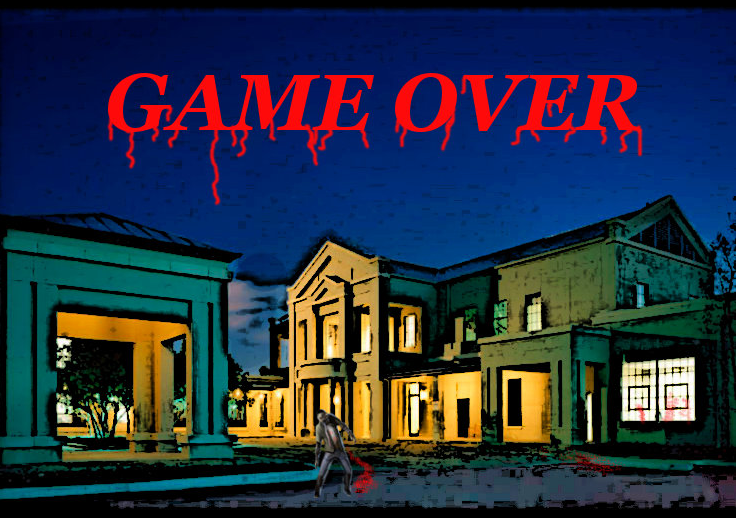
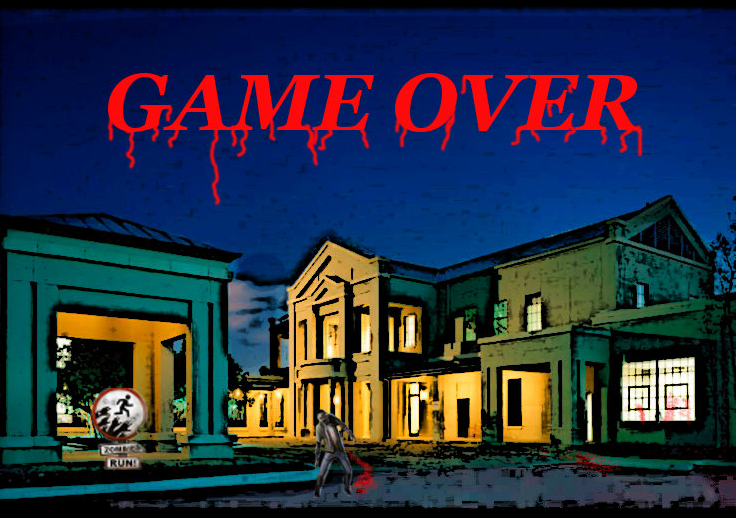
added CSS3 styling to start page  game over screen update  removed div transition animations  -LK

Changed region(s): [[0.125, 0.7413, 0.2188, 0.9266]]

diff --git a/src/css/screen.css b/src/css/screen.css
@@ -60,13 +60,14 @@ body {
 }
 
 #character-select-screen h1 {
+    text-shadow: #fff 0px 1px 0, #000 0 -1px 0;
     text-align: center;
-    color: #fff;
+    color: #14c207;
     margin-bottom: 0;
 }
 
 #gameOver {
-    background: url(../img/arsenalGameOver.jpg);
+    background: url(../img/arsenalGameOver.png);
     display: none;
 }
 
@@ -99,15 +100,46 @@ body {
     cursor: pointer;
     margin: 0 auto;
 }
+
 #start-button {
-    width: 179px;
+    width: 110px;
+    font-family: Arial, Helvetica, sans-serif;
+    font-size: 21px;
+    padding: 10px 40px;
+    margin-bottom: 25px;
+    background: -moz-linear-gradient(top, #2e2c28 0%, #e01d1d);
+    background: -webkit-gradient(linear, left top, left bottom, from(#2e2c28), to(#e01d1d));
+    -moz-border-radius: 6px;
+    -webkit-border-radius: 6px;
+    border-radius: 6px;
+    border: 1px solid #b80000;
+    -moz-box-shadow: 0px 1px 3px rgba(000, 000, 000, 0.9), inset 0px -1px 0px rgba(255, 255, 255, 0.7);
+    -webkit-box-shadow: 0px 1px 3px rgba(000, 000, 000, 0.9), inset 0px -1px 0px rgba(255, 255, 255, 0.7);
+    box-shadow: 0px 1px 3px rgba(000, 000, 000, 0.9), inset 0px -1px 0px rgba(255, 255, 255, 0.7);
+    text-shadow: 0px -1px 1px rgba(000, 000, 000, 0.5), 0px 1px 0px rgba(255, 255, 255, 0.3);
 }
+
 #continue-button {
-    width: 245px;
+    width: 150px;
+    font-family: Arial, Helvetica, sans-serif;
+    font-size: 21px;
+    padding: 10px 20px;
+    background: -moz-linear-gradient(top, #2e2c28 0%, #e01d1d);
+    background: -webkit-gradient(linear, left top, left bottom, from(#2e2c28), to(#e01d1d));
+    -moz-border-radius: 6px;
+    -webkit-border-radius: 6px;
+    border-radius: 6px;
+    border: 1px solid #b80000;
+    -moz-box-shadow: 0px 1px 3px rgba(000, 000, 000, 0.9), inset 0px -1px 0px rgba(255, 255, 255, 0.7);
+    -webkit-box-shadow: 0px 1px 3px rgba(000, 000, 000, 0.9), inset 0px -1px 0px rgba(255, 255, 255, 0.7);
+    box-shadow: 0px 1px 3px rgba(000, 000, 000, 0.9), inset 0px -1px 0px rgba(255, 255, 255, 0.7);
+    text-shadow: 0px -1px 1px rgba(000, 000, 000, 0.5), 0px 1px 0px rgba(255, 255, 255, 0.3);
 }
+
 #play-again {
     width: 175px;
 }
+
 #start-button:hover, #continue-button:hover, #play-again:hover {
     color: #ff0000;
 }
@@ -135,11 +167,13 @@ body {
 #titleScreenMusic {
     display: none;
 }
+
 .vertical-scroller {
     /*marquee-style:scroll;
     marquee-play-count:1;
     marquee-direction:forward;*/
 }
+
 .spacer {
     height: 200px;
 }

diff --git a/src/js/addListenerFunctions.js b/src/js/addListenerFunctions.js
@@ -1,16 +1,14 @@
-
-
 function addStartScreenButtonListener() {
     $('#start-button').on('click', function () {
         $('#titleScreenMusic').get(0).pause();
         saveGame();
-        $(this).closest('#start-screen').hide('slow');
-        $('#character-select-screen').show('slow');
+        $(this).closest('#start-screen').hide();
+        $('#character-select-screen').show();
     });
     $('#continue-button').on('click', function () {
         $('#titleScreenMusic').get(0).pause();
         setSavedGameSettings();
-        $(this).closest('#start-screen').hide('slow');
+        $(this).closest('#start-screen').hide();
         $('#game').show('slow');
         startGame()
     });
@@ -31,12 +29,12 @@ function addCharacterHoverListener() {
         $(this).parent().addClass('arrow');
         var id = $(this).prop('id');
         var $playerInfo = $('#playerInfo');
-        if(id === 'dale') {
+        if (id === 'dale') {
             $playerInfo.html('Name: Dale Kocian<br/>' +
                 'CodeName: Cash<br/>' +
                 'Years of Service: 2 <br/>' +
                 'Story: ' + DALES_BIO);
-        } else if(id === 'triest') {
+        } else if (id === 'triest') {
             $playerInfo.html('Name: Triest Montel Smart<br/>' +
                 'CodeName: Lil\' Trigga<br/>' +
                 'Years of Service: 2 <br/>' +
@@ -60,9 +58,9 @@ function addPauseResumeButtonListener() {
 }
 function addPauseResumeKeyListener() {
     $('body').keypress(function () {
-        if(keydown.p) {
+        if (keydown.p) {
             var $el = $('#resume-pause');
-            if($el.text() === 'Resume') {
+            if ($el.text() === 'Resume') {
                 resumeGame();
                 $el.text('Pause');
             } else {
